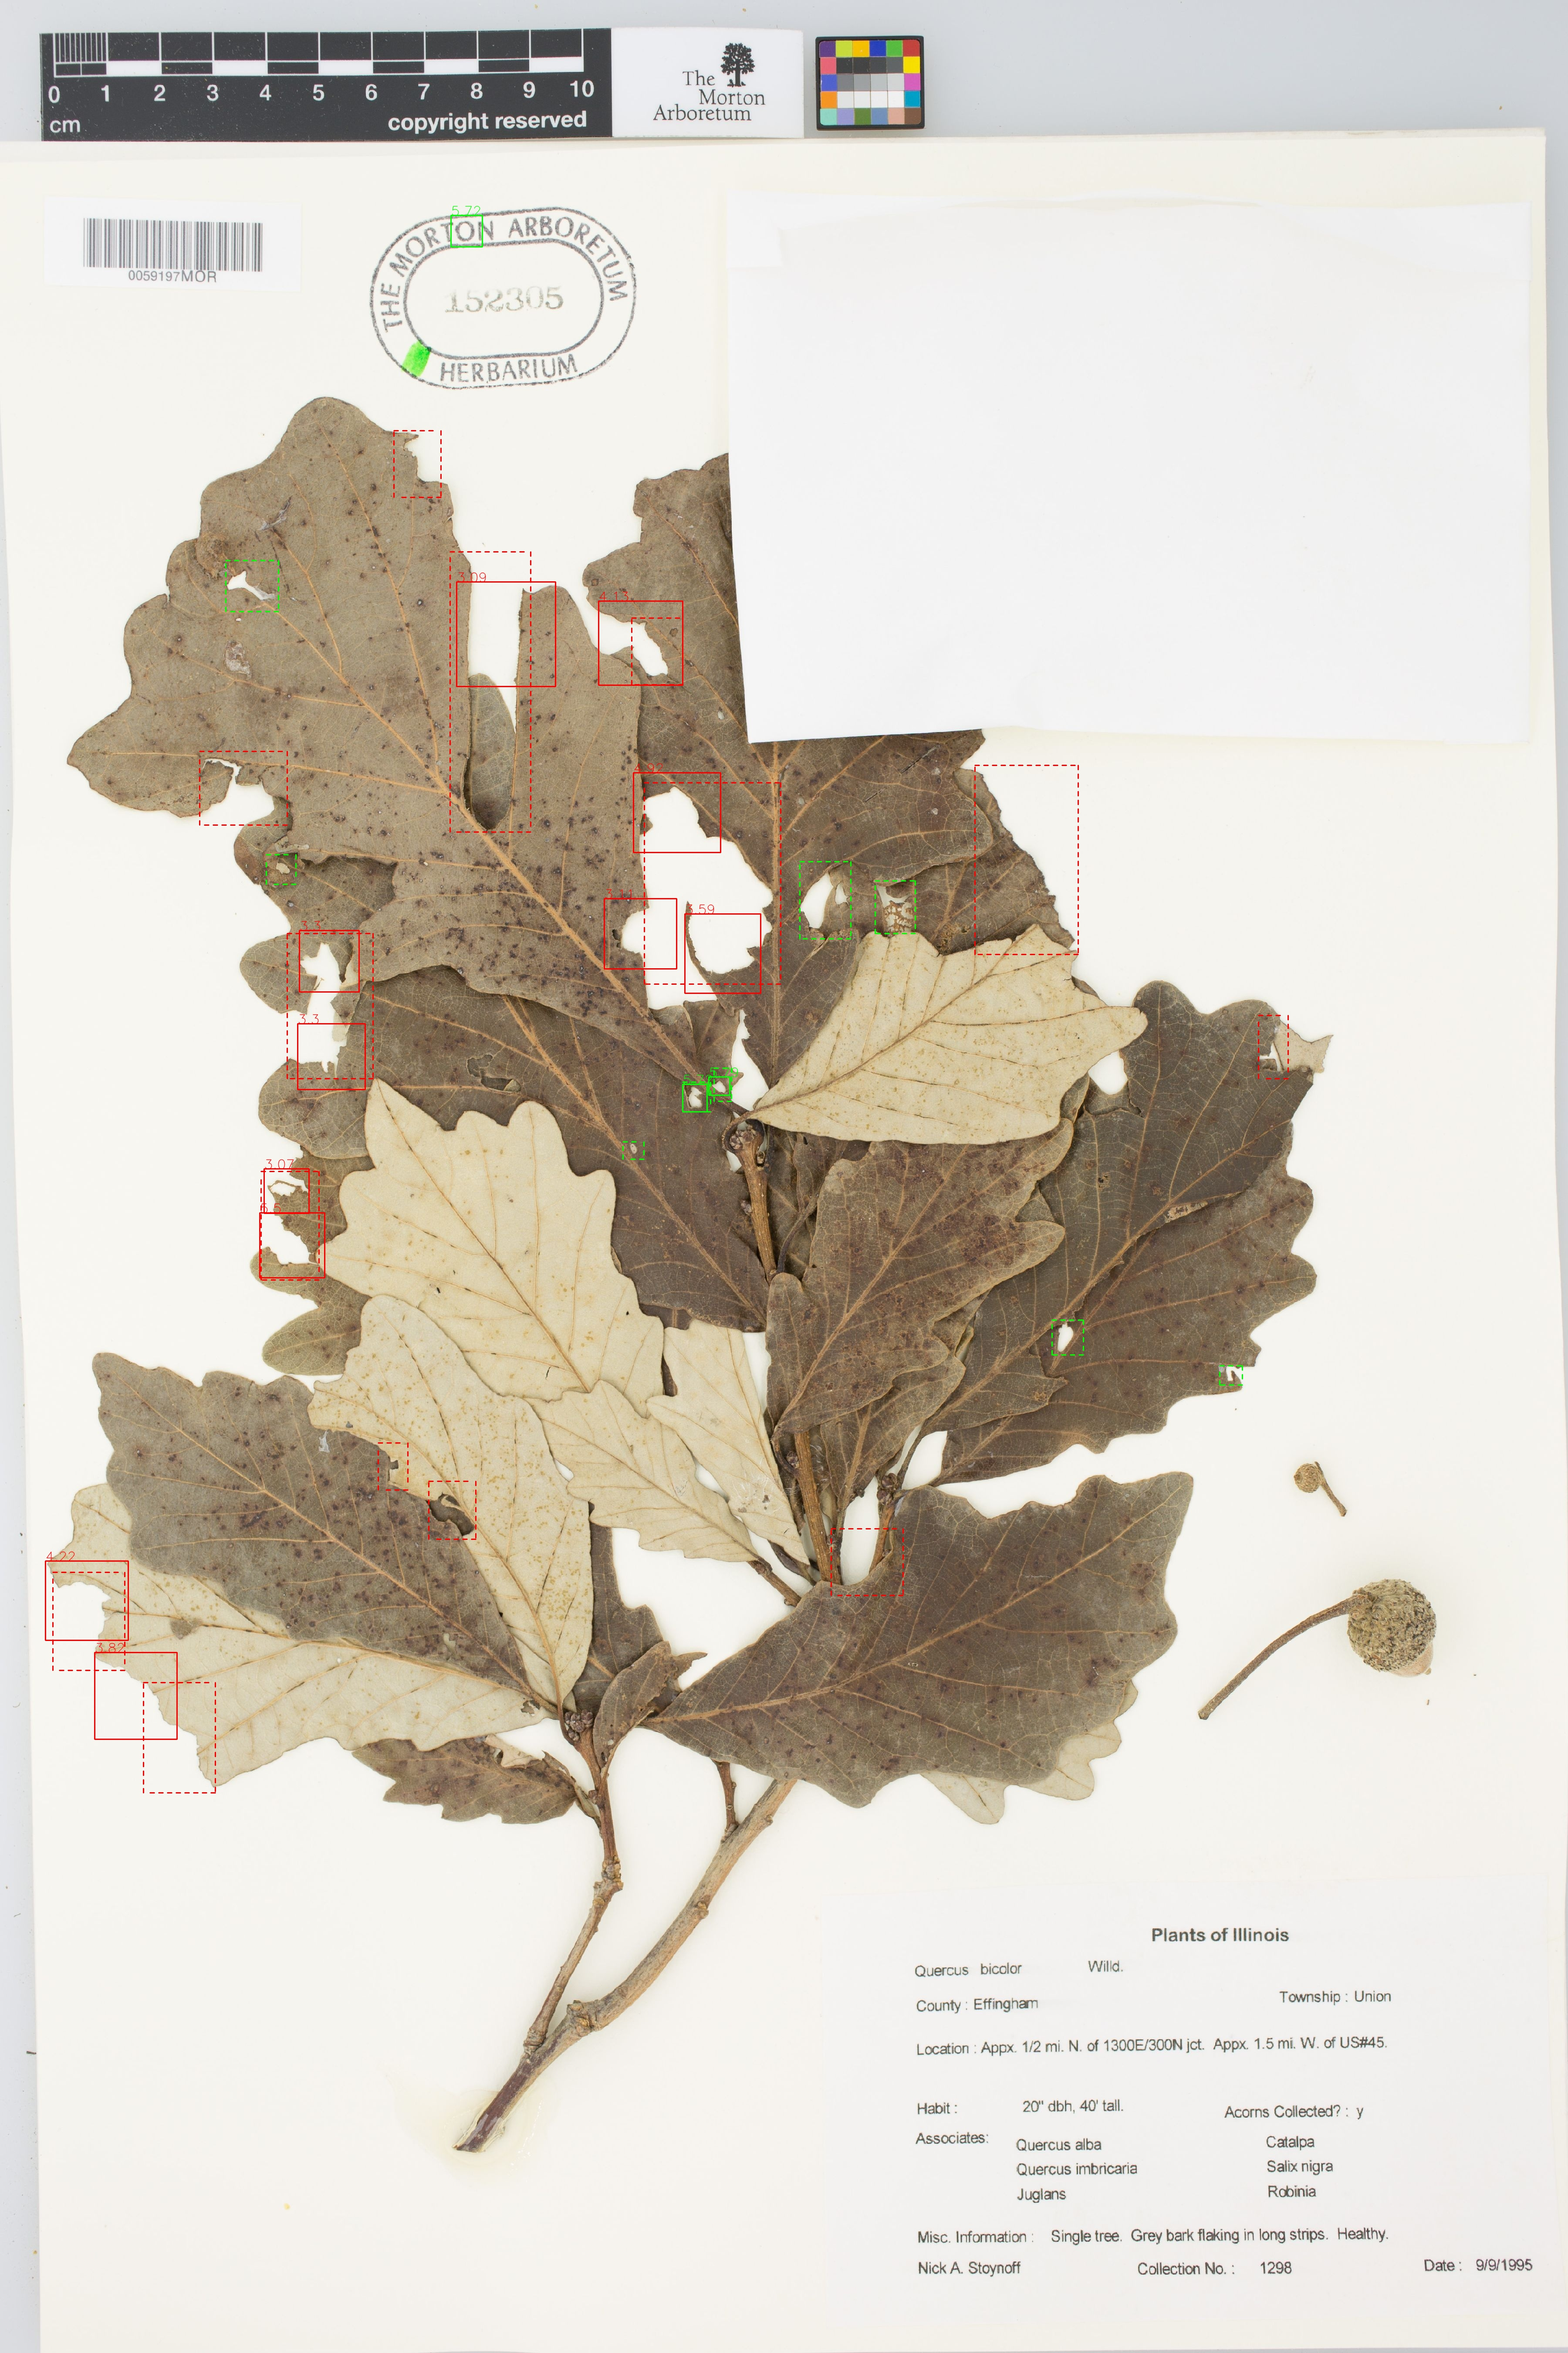
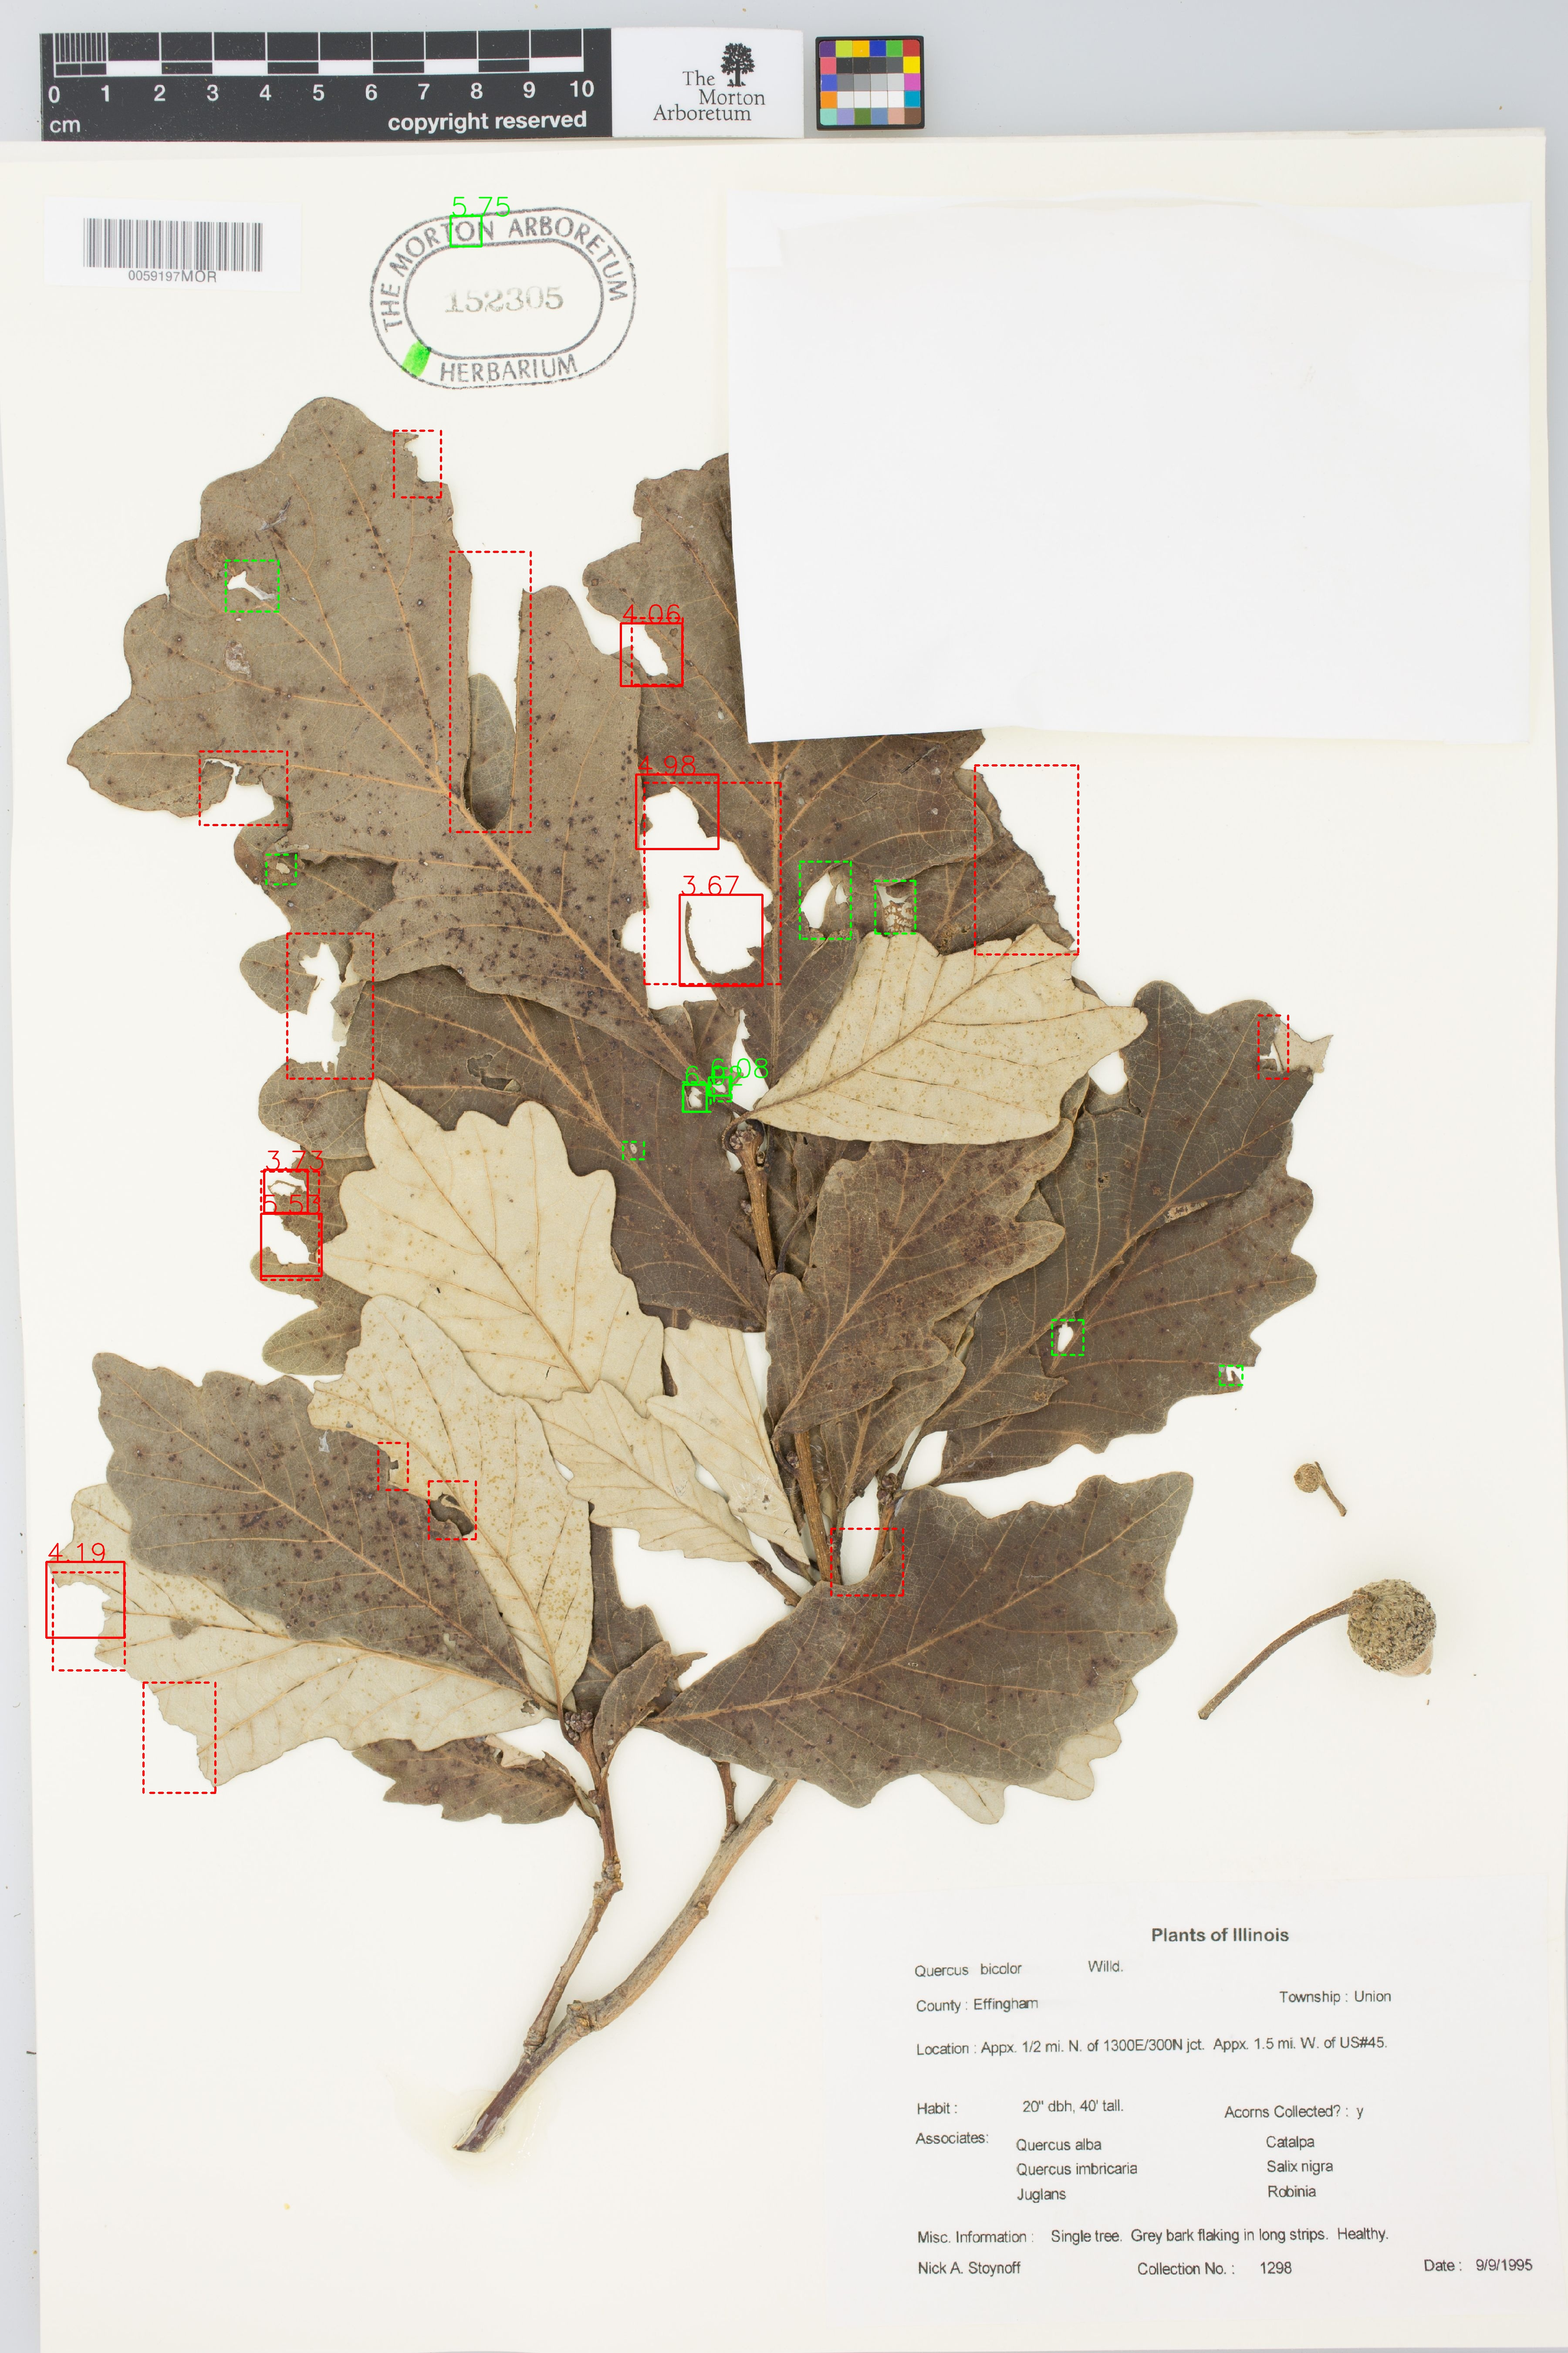
update

diff --git a/scripts/eval/make_figures.py b/scripts/eval/make_figures.py
@@ -1,0 +1,211 @@
+'''*************************************************************************
+	> File Name: visualize.py
+	> Author: yuansong
+	> Mail: yuansongwx@outlook.com
+	> Created Time: Wed 18 Sep 2019 12:46:13 PM EDT
+ ************************************************************************'''
+import cv2
+import json
+import numpy as np
+import os
+from tqdm import tqdm
+import rpack
+
+COLORS = ([255,0,0], [0,255,0], [0,0,255])
+
+FONT = cv2.FONT_HERSHEY_SIMPLEX
+
+INDEX = {
+        'margin': 0, 'interior': 1, 'skel': 2, 'stipp': 3,
+        'blotch': 4, 'serp': 5, 'scrap': 6, 'normmar': 7, 'normint': 8, 'undef': 9,
+        }
+
+LABEL = ['margin', 'interior', 'skel', 'stipp', 'blotch', 'serp', 'scrap', 'normmar', 'normint', 'undef']
+
+
+def drawline(img,pt1,pt2,color,thickness=1,style='dotted',gap=10):
+    dist =((pt1[0]-pt2[0])**2+(pt1[1]-pt2[1])**2)**.5
+    pts= []
+    for i in  np.arange(0,dist,gap):
+        r=i/dist
+        x=int((pt1[0]*(1-r)+pt2[0]*r)+.5)
+        y=int((pt1[1]*(1-r)+pt2[1]*r)+.5)
+        p = (x,y)
+        pts.append(p)
+
+    if style=='dotted':
+        for p in pts:
+            img = cv2.circle(img,p,thickness,color,-1)
+    else:
+        s=pts[0]
+        e=pts[0]
+        i=0
+        for p in pts:
+            s=e
+            e=p
+            if i%2==1:
+                img = cv2.line(img,s,e,color,thickness)
+            i+=1
+    return img
+
+def drawpoly(img,pts,color,thickness=1,style='dotted',):
+    s=pts[0]
+    e=pts[0]
+    pts.append(pts.pop(0))
+    for p in pts:
+        s=e
+        e=p
+        img = drawline(img,s,e,color,thickness,style)
+    return img
+
+def drawrect(img,pt1,pt2,color,thickness=1,style='dotted'):
+    pts = [pt1,(pt2[0],pt1[1]),pt2,(pt1[0],pt2[1])]
+    img = drawpoly(img,pts,color,thickness,style)
+    return img
+
+def get_tp_fp_fn(pred, gt, class_index, img_name, ovthresh=0.5):
+    gt = np.array(gt[class_index])
+    pred = np.array(pred[class_index])
+    tp, fp, fn = [], [], []
+    if_det = [False] * gt.shape[0]
+    for box in pred:
+        ixmin = np.maximum(gt[:, 0], box[0])
+        iymin = np.maximum(gt[:, 1], box[1])
+        ixmax = np.minimum(gt[:, 2], box[2])
+        iymax = np.minimum(gt[:, 3], box[3])
+        iw = np.maximum(ixmax - ixmin, 0.)
+        ih = np.maximum(iymax - iymin, 0.)
+        inters = iw * ih
+        uni = np.minimum((box[2] - box[0]) * (box[3] - box[1]), (gt[:, 2] - gt[:, 0]) * (gt[:, 3] - gt[:, 1]))
+        overlaps = inters / uni
+        ovmax = np.max(overlaps)
+        jmax = np.argmax(overlaps)
+
+        if ovmax > ovthresh:
+            #from IPython import embed
+            #embed()
+            tp.append((min(box[0], gt[jmax][0]), min(box[1], gt[jmax][1]), max(box[2], gt[jmax][2]), max(box[3], gt[jmax][3]), img_name))
+            if_det[jmax] = True
+        else:
+            fp.append((box[0], box[1], box[2], box[3], img_name))
+
+    for i in range(len(if_det)):
+        if not if_det[i]:
+            fn.append((gt[i][0], gt[i][1], gt[i][2], gt[i][3], img_name))
+
+    #from IPython import embed
+    #embed()
+    # delete repeating bboxes
+    tp = list(set(tp))
+    fp = list(set(fp))
+    fn = list(set(fn))
+    return tp, fp, fn
+
+def get_packed(boxes):
+    sizes = [(int(box[2] - box[0]), int(box[3] - box[1])) for box in boxes]
+    heights = [int(box[3] - box[1]) for box in boxes]
+    #arr = np.array(sizes, dtype=[('w', int), ('h', int)])
+    arr = np.array(heights)
+
+    sorted_ind = np.argsort(arr)
+    sorted_ind = list(sorted_ind[::-1])
+    sorted_sizes = sorted(sizes, key = lambda x: x[1], reverse=True)
+    #sorted_sizes = np.sort(arr, order='h')
+    #sorted_sizes = sorted_sizes[::-1]
+    #sorted_sizes = list(sorted_sizes)
+    #from IPython import embed
+    #embed()
+    positions = rpack.pack(sorted_sizes)
+    shape = rpack.enclosing_size(sorted_sizes, positions)
+    new_img = np.zeros((shape[1], shape[0], 3))
+    for i in range(len(positions)):
+        x, y = positions[i]
+        w, h = sorted_sizes[i]
+        box = boxes[sorted_ind[i]]
+        img = cv2.imread(box[4])
+        img = np.array(img)
+        new_img[y:y+h, x:x+w ,:] = img[int(box[1]):int(box[1]) + h, int(box[0]):int(box[0] + w)]
+    return new_img
+
+def save_img(pred, gt, save_folder='train_log/test_figures/', thres=(0.4, 0.6)):
+    img_names = list(gt.keys())
+    tp0, fp0, fn0, tp1, fp1, fn1 = [], [], [], [], [], []
+
+    for i in tqdm(range(len(img_names))):
+        pred_new = {0: [], 1: []}
+        gt_new = {0: [], 1: []}
+        img_file = img_names[i]
+        img = cv2.imread(img_file)
+        img = img[:,:,::-1]
+        for box in pred[img_file]:
+            xs, ys, xe, ye = box[:4]
+            confidence = box[4]
+            label = int(box[5])
+            if label > 1:
+                continue
+            if confidence > thres[label]:
+                pred_new[label].append(box)
+                img = cv2.rectangle(img, (int(xs), int(ys)), (int(xe), int(ye)), COLORS[label], 4)
+                #img = cv2.putText(img, str(np.round(confidence*10,2)), (int(xs), int(ys)),
+                #        FONT, 2, COLORS[label], 2, cv2.LINE_AA)
+
+        for box in gt[img_file]:
+            xs, ys, w, h = box['rect']
+            xe, ye = xs + w, ys + h
+            label = INDEX[box['label']]
+            if label > 1:
+                continue
+            #else:
+            #    label = min(label, 2)
+            gt_new[label].append([xs, ys, xe, ye, label])
+            img = drawrect(img, (int(xs), int(ys)), (int(xe), int(ye)), COLORS[label], 4, style='dash')
+
+        img = cv2.cvtColor(img, cv2.COLOR_BGR2RGB)
+        name = save_folder + img_file.split('/')[-1]
+        cv2.imwrite(name, img)
+
+        tp0_, fp0_, fn0_ = get_tp_fp_fn(pred_new, gt_new, 0, name)
+        tp1_, fp1_, fn1_ = get_tp_fp_fn(pred_new, gt_new, 1, name)
+
+        tp0 += tp0_
+        fp0 += fp0_
+        fn0 += fn0_
+        tp1 += tp1_
+        fp1 += fp1_
+        fn1 += fn1_
+
+    tp0_img = get_packed(tp0)
+    cv2.imwrite(save_folder + 'tp0.jpg', tp0_img)
+    fp0_img = get_packed(fp0)
+    cv2.imwrite(save_folder + 'fp0.jpg', fp0_img)
+    fn0_img = get_packed(fn0)
+    cv2.imwrite(save_folder + 'fn0.jpg', fn0_img)
+    tp1_img = get_packed(tp1)
+    cv2.imwrite(save_folder + 'tp1.jpg', tp1_img)
+    fp1_img = get_packed(fp1)
+    cv2.imwrite(save_folder + 'fp1.jpg', fp1_img)
+    fn1_img = get_packed(fn1)
+    cv2.imwrite(save_folder + 'fn1.jpg', fn1_img)
+
+
+if __name__ == "__main__":
+    import argparse
+    parser = argparse.ArgumentParser()
+    parser.add_argument("thres1", type=float)
+    parser.add_argument("thres2", type=float)
+    #parser.add_argument("thres3", type=float)
+    parser.add_argument("pred", type=str)
+    args = parser.parse_args()
+    thres = (args.thres1, args.thres2)
+
+    with open(args.pred) as f:
+        pred = json.load(f)
+
+    with open('../../Data/Labels/test_full.json') as f:
+        gt = json.load(f)
+
+    save_folder = 'train_log/figures/'
+    if not os.path.exists(save_folder):
+        os.makedirs(save_folder)
+    save_img(pred, gt, save_folder, thres)
+

diff --git a/scripts/eval/visualize.py b/scripts/eval/visualize.py
@@ -10,6 +10,7 @@ import numpy as np
 import os
 from tqdm import tqdm
 COLORS = ([255,0,0], [0,255,0], [0,0,255])
+
 FONT = cv2.FONT_HERSHEY_SIMPLEX
 
 INDEX = {
@@ -60,7 +61,7 @@ def drawrect(img,pt1,pt2,color,thickness=1,style='dotted'):
     img = drawpoly(img,pts,color,thickness,style)
     return img
 
-def save_img(pred, gt, save_folder='train_log/test_img/', thres=(0.4, 0.6, 0.5)):
+def save_img(pred, gt, save_folder='train_log/test_img/', thres=(0.4, 0.6)):
     img_names = list(gt.keys())
     for i in tqdm(range(len(img_names))):
         img_file = img_names[i]
@@ -70,20 +71,22 @@ def save_img(pred, gt, save_folder='train_log/test_img/', thres=(0.4, 0.6, 0.5))
             xs, ys, xe, ye = box[:4]
             confidence = box[4]
             label = int(box[5])
+            if label > 1:
+                continue
             if confidence > thres[label]:
-                img = cv2.rectangle(img, (int(xs), int(ys)), (int(xe), int(ye)), COLORS[label], 2)
+                img = cv2.rectangle(img, (int(xs), int(ys)), (int(xe), int(ye)), COLORS[label], 4)
                 img = cv2.putText(img, str(np.round(confidence*10,2)), (int(xs), int(ys)),
-                        FONT, 1, COLORS[label], 1, cv2.LINE_AA)
+                        FONT, 2, COLORS[label], 2, cv2.LINE_AA)
 
         for box in gt[img_file]:
             xs, ys, w, h = box['rect']
             xe, ye = xs + w, ys + h
             label = INDEX[box['label']]
-            if label > 6:
+            if label > 1:
                 continue
-            else:
-                label = min(label, 2)
-            img = drawrect(img, (int(xs), int(ys)), (int(xe), int(ye)), COLORS[label], 2, style='dash')
+            #else:
+            #    label = min(label, 2)
+            img = drawrect(img, (int(xs), int(ys)), (int(xe), int(ye)), COLORS[label], 4, style='dash')
 
         img = cv2.cvtColor(img, cv2.COLOR_BGR2RGB)
         name = img_file.split('/')[-1]
@@ -94,10 +97,10 @@ if __name__ == "__main__":
     parser = argparse.ArgumentParser()
     parser.add_argument("thres1", type=float)
     parser.add_argument("thres2", type=float)
-    parser.add_argument("thres3", type=float)
+    #parser.add_argument("thres3", type=float)
     parser.add_argument("pred", type=str)
     args = parser.parse_args()
-    thres = (args.thres1, args.thres2, args.thres3)
+    thres = (args.thres1, args.thres2)
 
     with open(args.pred) as f:
         pred = json.load(f)

diff --git a/config/SSD-sgd.larger-patch/README.md b/config/SSD-sgd.larger-patch/README.md
@@ -1,0 +1,1 @@
+threshold = (0.35, 0.55)
